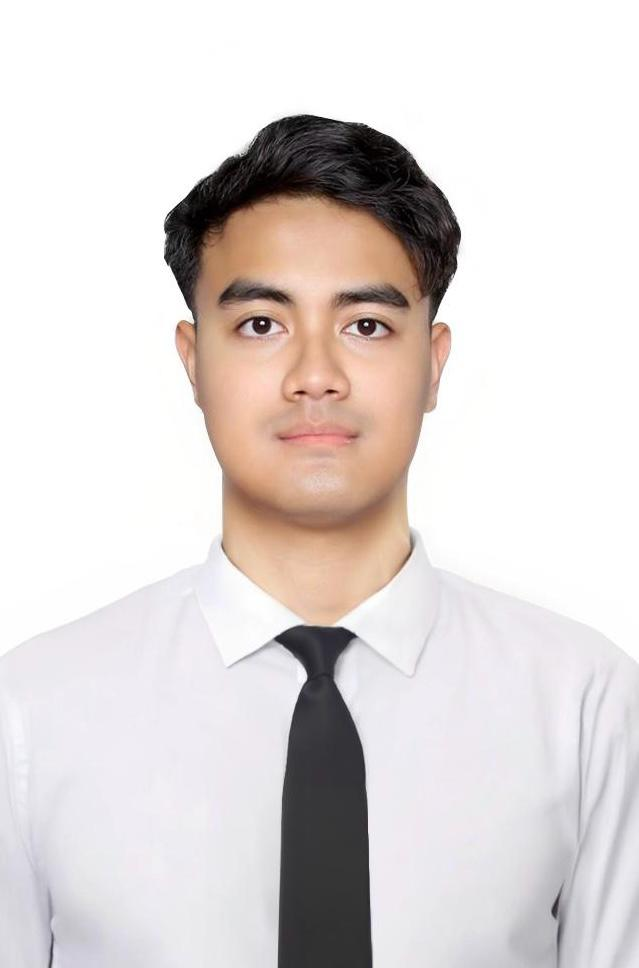
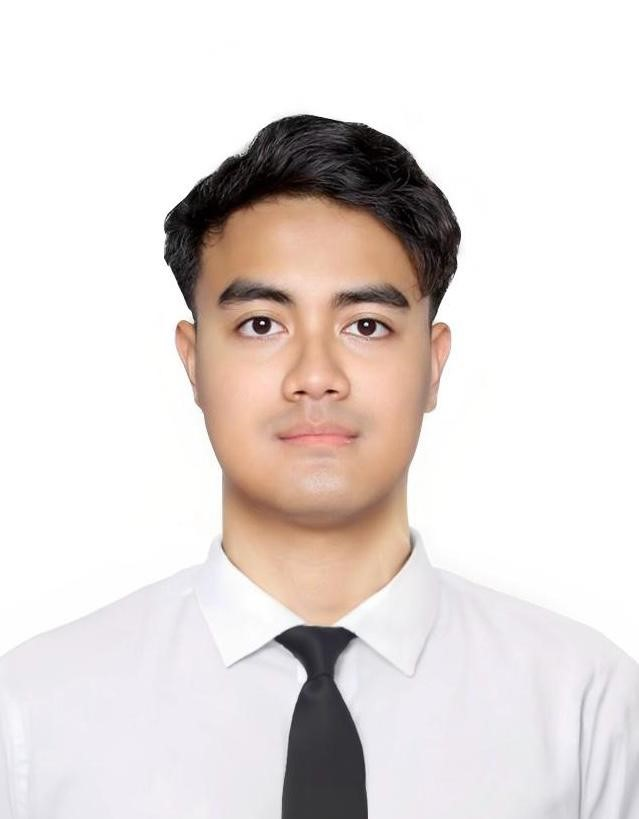
updated

diff --git a/src/components/About.vue b/src/components/About.vue
@@ -5,7 +5,7 @@
           <div class="left">
             <div class="image">
               <img src="https://github.com/hibrizys/Hibrizy-Web/blob/main/src/assets/img/thumbs/1-1.jpg?raw=true" alt="" />
-              <div class="main" data-img-url="https://github.com/hibrizys/Hibrizy-Web/blob/main/src/assets/img/about/izy.jpg?raw=true"></div>
+              <div class="main" data-img-url="https://github.com/hibrizys/personal-web/blob/main/src/assets/img/about/izy.jpg?raw=true"></div>
             </div>
           </div>
           <div class="right">
